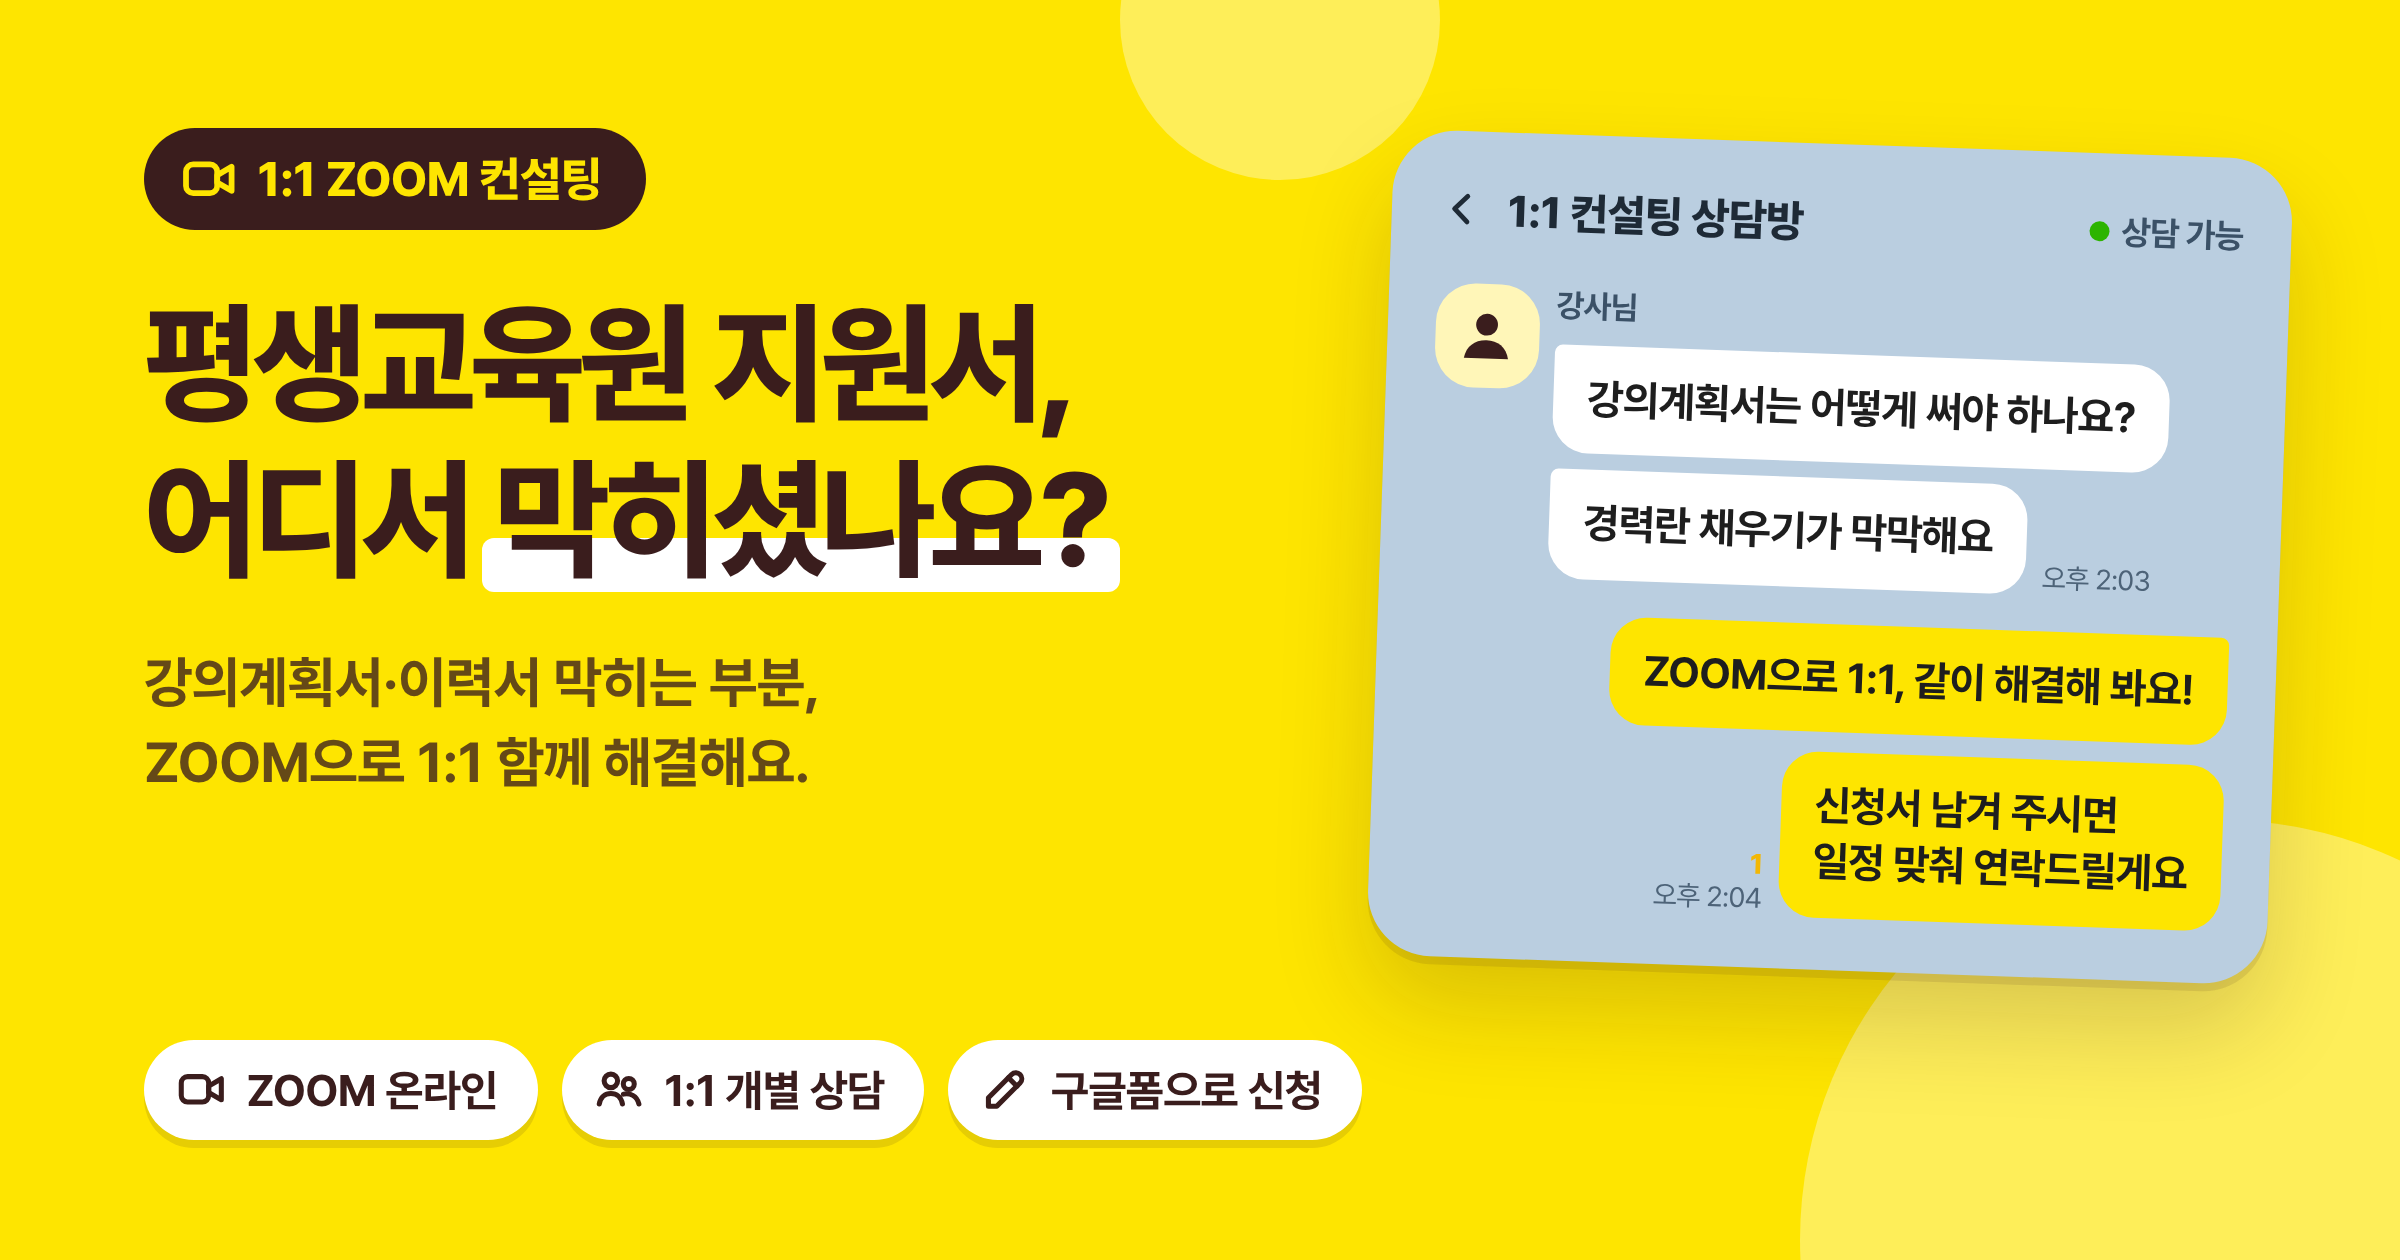
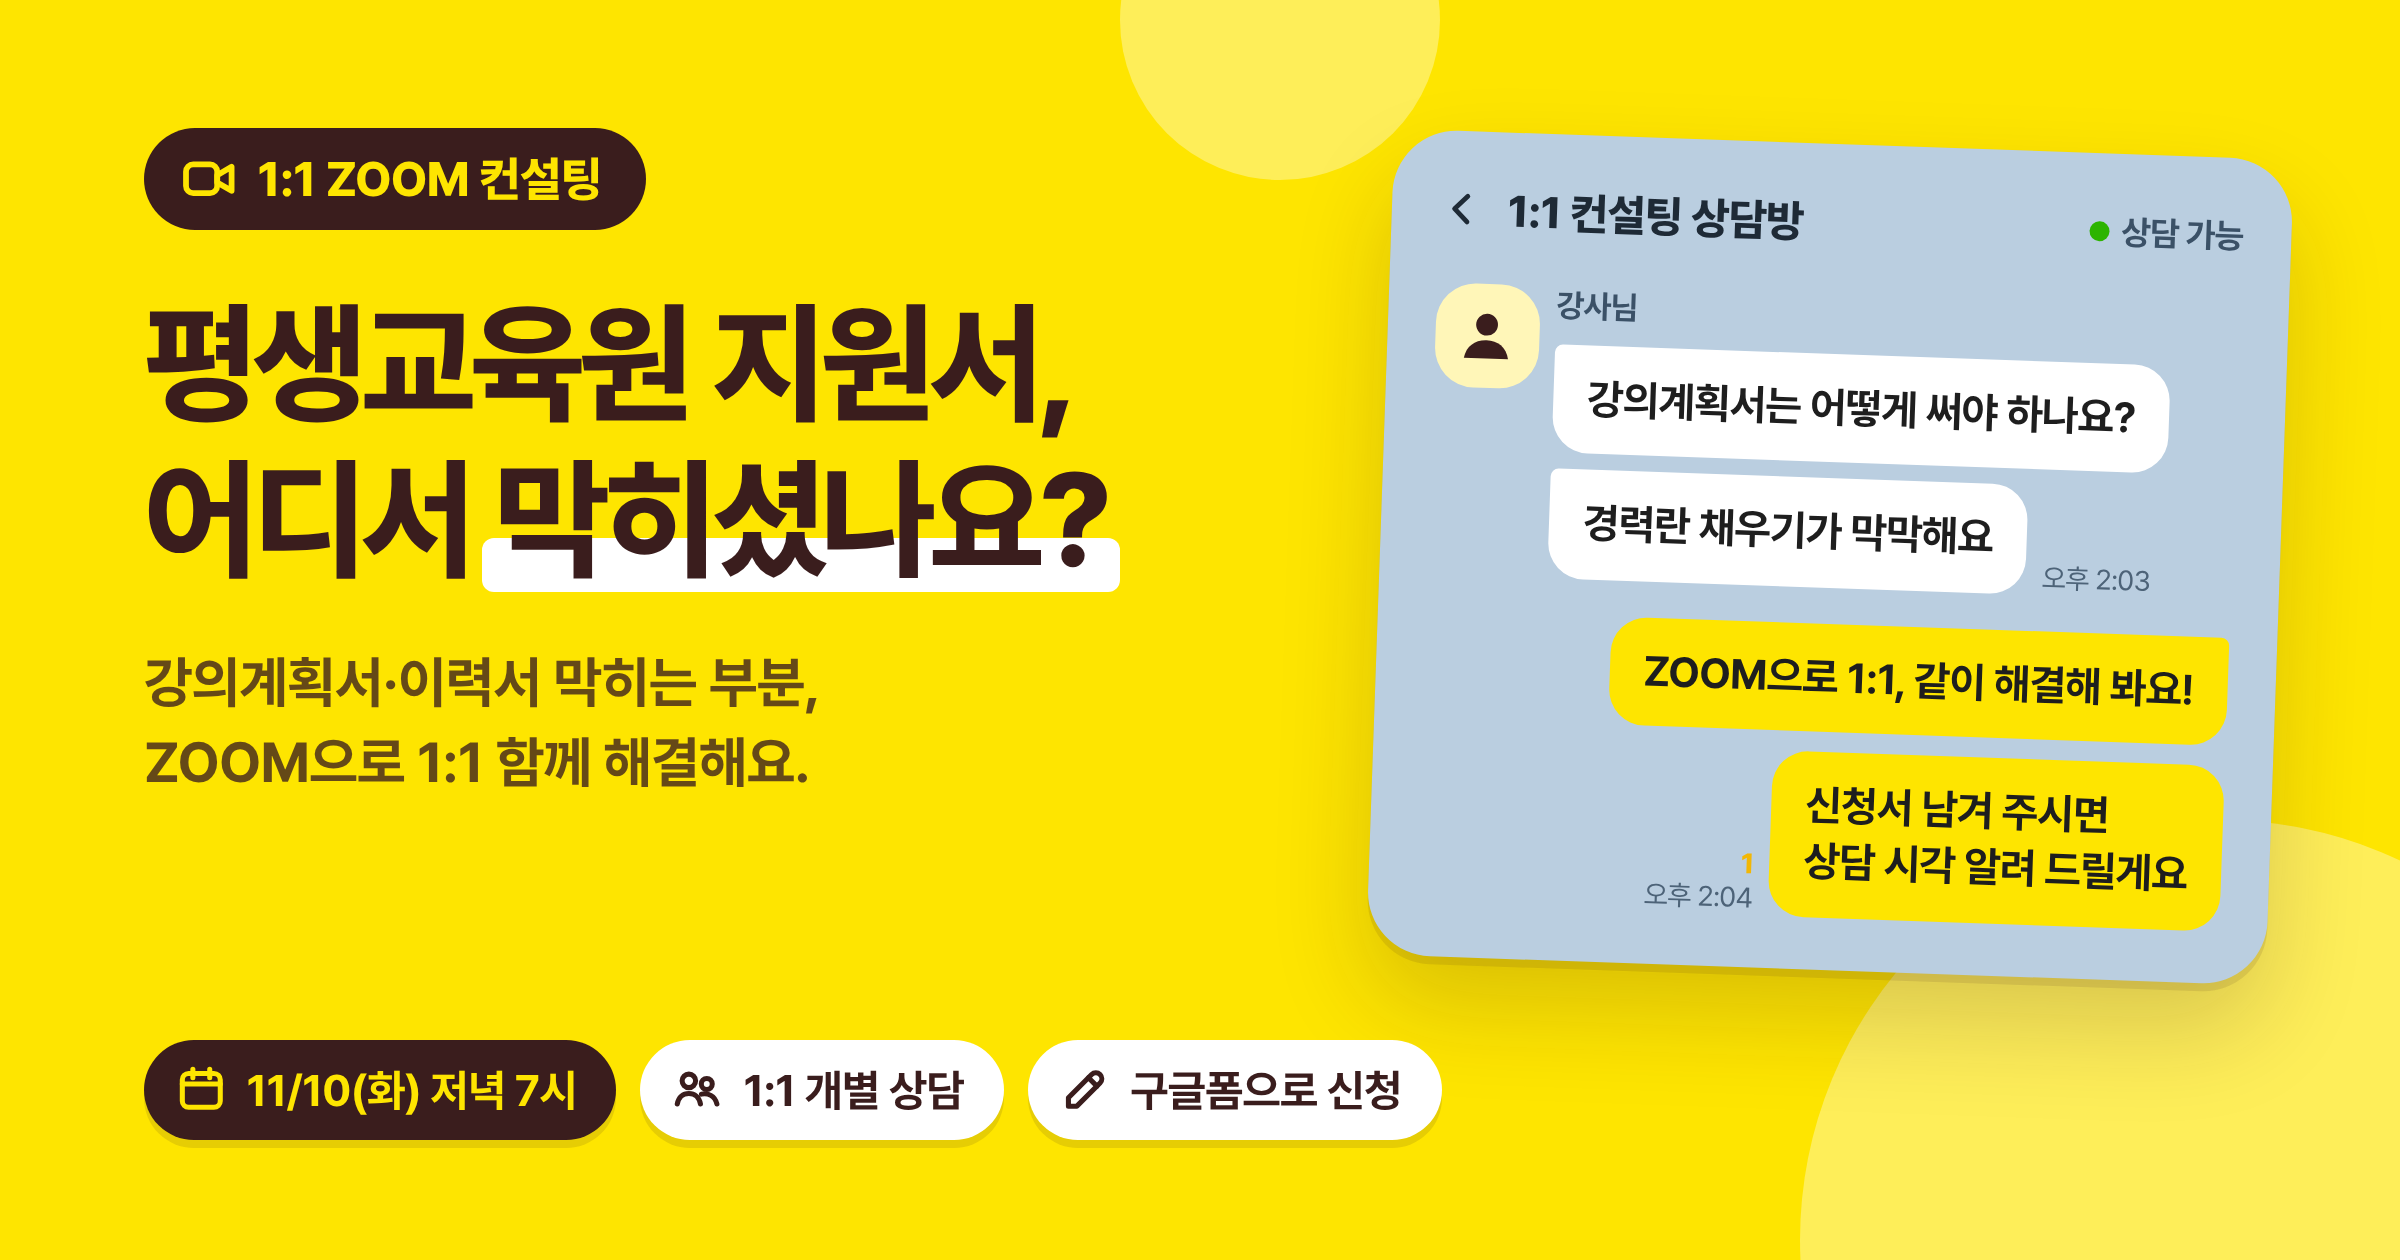
Set consulting date to Nov 10 (Tue) 7 PM
- Thumbnail gets a highlighted date chip and updated reply bubble
- Form replaces weekday/time questions with Nov 10 evening time slots
  and an option for people who cannot attend that day
- README post text shows the fixed schedule

Claude-Session: https://claude.ai/code/session_01G4atFpUHmW2HB8yGsukK2u

Changed region(s): [[0.0625, 0.8048, 0.625, 0.9286], [0.6875, 0.5881, 0.875, 0.7429]]

diff --git a/promo/zoom-consulting/thumbnail.html b/promo/zoom-consulting/thumbnail.html
@@ -52,6 +52,8 @@ h1 em::after {
   box-shadow: 0 4px 0 rgba(58,29,29,.12);
 }
 
+.chip.when { background: var(--brown); color: var(--yellow); }
+
 /* 채팅창 */
 .chat {
   background: var(--chat-bg); border-radius: 32px;
@@ -160,14 +162,14 @@ h1 em::after {
     </div>
     <div class="row me">
       <div class="meta"><b>1</b>오후 2:04</div>
-      <div class="bubble">신청서 남겨 주시면<br>일정 맞춰 연락드릴게요</div>
+      <div class="bubble">신청서 남겨 주시면<br>상담 시각 알려 드릴게요</div>
     </div>
   </div>
 
   <div class="chips">
-    <span class="chip">
-      <svg width="1.15em" height="1.15em" viewBox="0 0 24 24" fill="none" stroke="currentColor" stroke-width="2.4" stroke-linecap="round" stroke-linejoin="round"><rect x="2.5" y="6" width="13" height="12" rx="3"/><path d="M15.5 10.5l6-3.5v10l-6-3.5z"/></svg>
-      ZOOM 온라인
+    <span class="chip when">
+      <svg width="1.15em" height="1.15em" viewBox="0 0 24 24" fill="none" stroke="currentColor" stroke-width="2.4" stroke-linecap="round" stroke-linejoin="round"><rect x="3" y="4.5" width="18" height="16" rx="3"/><path d="M3 9.5h18M8 2.5v4M16 2.5v4"/></svg>
+      11/10(화) 저녁 7시
     </span>
     <span class="chip">
       <svg width="1.15em" height="1.15em" viewBox="0 0 24 24" fill="none" stroke="currentColor" stroke-width="2.4" stroke-linecap="round" stroke-linejoin="round"><circle cx="8" cy="8" r="3.2"/><circle cx="16.5" cy="9.5" r="2.6"/><path d="M2.5 19c.6-3.3 2.8-5 5.5-5s4.9 1.7 5.5 5M14 14.3c2.9-.6 6.4.6 7.3 4.7"/></svg>

diff --git a/promo/zoom-consulting/README.md b/promo/zoom-consulting/README.md
@@ -23,7 +23,7 @@
 1. **기본 정보**: 성함, 휴대폰 번호(형식 검사), 이메일(형식 검사)
 2. **지원하려는 곳과 강좌**: 기관 유형(대학 부설·평생학습관·주민센터 등), 개설하고 싶은 강좌, 지원 상황, 마감일(선택), 강의 경력
 3. **막히는 부분**: 이력서, 자기소개서, 강의계획서, 강좌 소개글, 수강료·재료비, 증빙 서류 등(복수 선택), 상담 때 이야기하고 싶은 내용(선택)
-4. **희망 일정**: 가능 요일, 가능 시간대, ZOOM 사용 경험, 알게 된 경로(선택)
+4. **희망 일정**: 11월 10일(화) 저녁 가능한 시간대(7시대·8시대·9시 이후·이날 불가), ZOOM 사용 경험, 알게 된 경로(선택)
 5. **개인정보 수집·이용 동의** (필수)
 
 ## 썸네일 다시 만들기
@@ -49,9 +49,9 @@ node promo/zoom-consulting/render.cjs
 > - 강의계획서를 주차별로 어떻게 채울지 모르겠는 분
 > - 지원했는데 떨어져서 무엇을 고쳐야 할지 궁금한 분
 >
-> ■ 진행 방식: ZOOM 온라인 1:1 (약 ○○분)
-> ■ 일정: ○월 ○일 ~ ○월 ○일 중 개별 조율
+> ■ 일정: 11월 10일(화) 오후 7시부터
+> ■ 진행 방식: ZOOM 온라인 1:1, 신청 순서대로 한 분씩 (약 ○○분)
 > ■ 모집 인원: ○명
 >
-> ■ 신청 방법: 아래 신청서를 작성해 주세요. 확인 후 개별 연락으로 일정과 ZOOM 링크를 보내 드립니다.
+> ■ 신청 방법: 아래 신청서를 작성해 주세요. 확인 후 개별 연락으로 상담 시각과 ZOOM 링크를 보내 드립니다.
 > 👉 [신청서 작성하기](구글폼 응답 링크)
